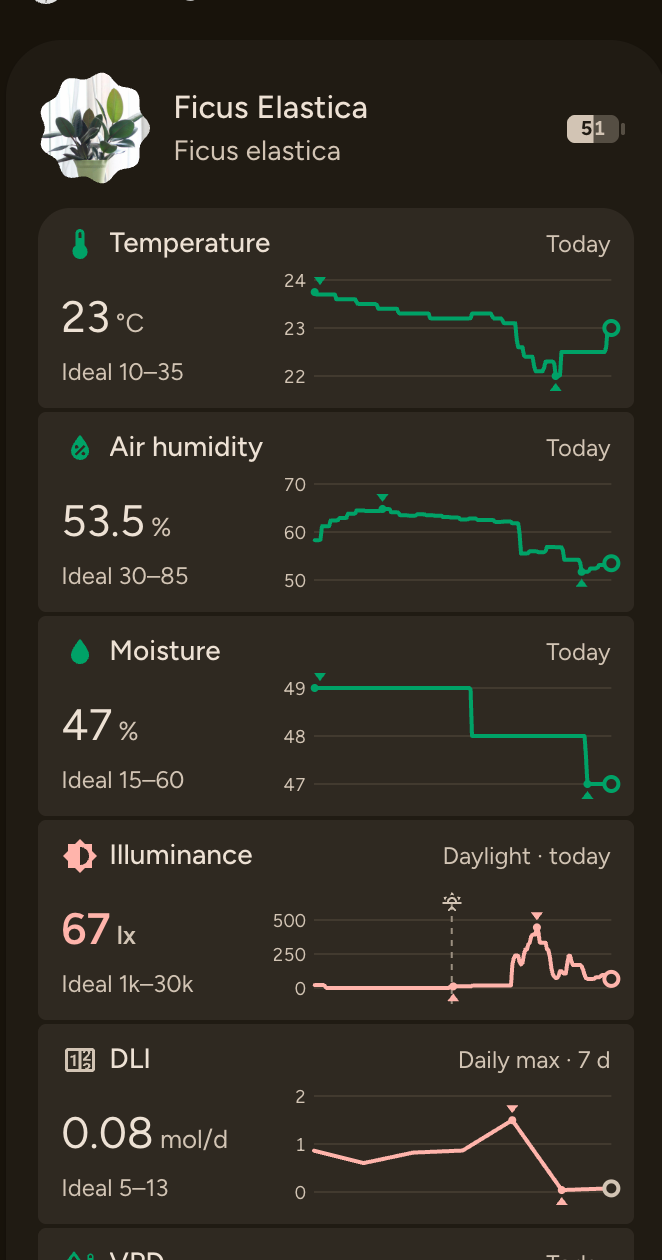
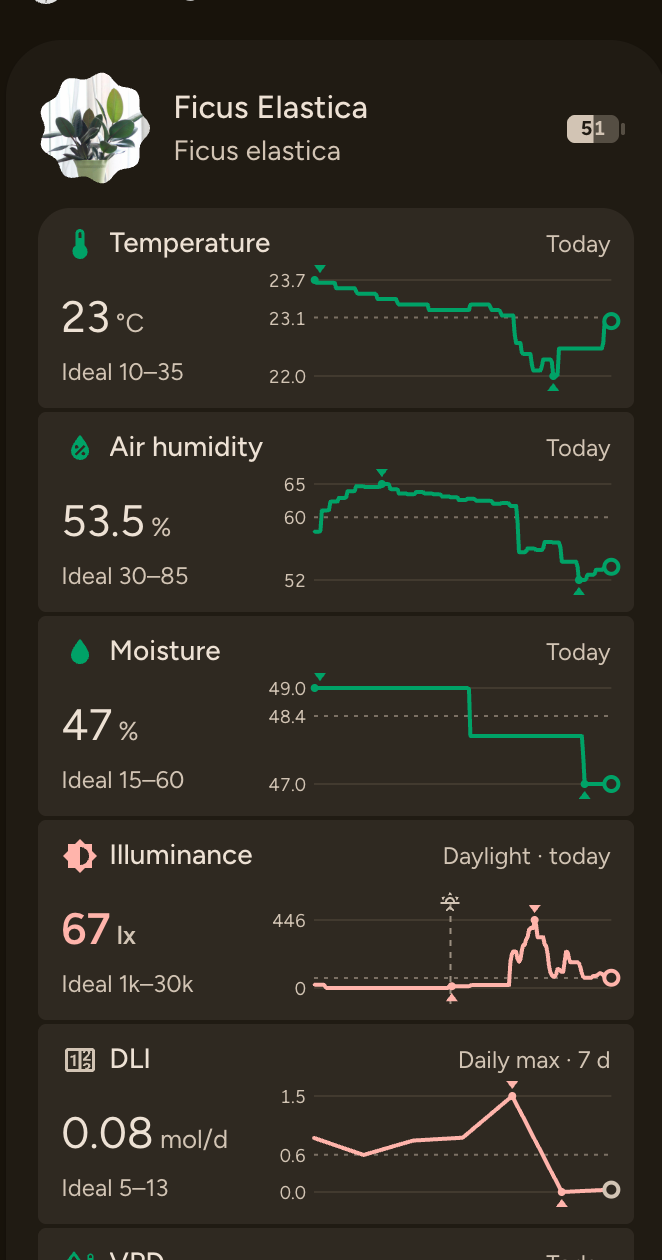
docs: min/avg/max graph gridlines

diff --git a/info.md b/info.md
@@ -4,7 +4,7 @@ Material 3 Expressive plant monitoring for Home Assistant, using [Olen's plant m
 
 <img src="https://raw.githubusercontent.com/lageorgem/ha-material-plant-card/master/assets/hero-dark.png" alt="Eleven plants on a dark dashboard using Material Plant Card in compact mode" width="900">
 
-- Full mode (default, as in flower-card): grouped Material 3 Expressive metric tiles with an icon, name and history label above a large current value and **Ideal a–b**. Summary display shows ideal-bound ticks, a threshold-coloured min–max segment, a current-value ring, an average triangle and **Min · Avg · Max** badges. Graph display shows a threshold-coloured history line, a small left-side y-axis with faint gridlines, min/max triangles and a latest-value ring, with no average marker or statistics row.
+- Full mode (default, as in flower-card): grouped Material 3 Expressive metric tiles with an icon, name and history label above a large current value and **Ideal a–b**. Summary display shows ideal-bound ticks, a threshold-coloured min–max segment, a current-value ring, an average triangle and **Min · Avg · Max** badges. Graph display shows a threshold-coloured history line, min, average (dashed) and max gridlines labelled on a small left-side y-axis, min/max triangles and a latest-value ring, with no average marker or statistics row.
 - Compact mode: circular gauges with icons centred on the dial, low, just-right and high zones, an active arc and a position dot; coloured fill follows the track's thin outer zones, thick just-right band and gaps. Logarithmic illuminance scaling for positive lux thresholds applies in both modes.
 - Success colour in range (`--md-sys-color-success`, falling back to `--success-color`). Compact gauges use neutral on-surface-variant for out-of-range readings without a problem, and error colour for problems with bold, error-coloured value text.
 - Cookie-shaped plant photo, missing-image placeholder, species or problem summary, and a red error circle with a centred **!** when attention is needed.
@@ -47,7 +47,7 @@ metrics:
 
 Hover or touch/drag on a graph to see a point's time and value. The vertical hover guide spans the full graph height. The hover bubble stays visible while hovered; Escape dismisses it. Touching or hovering the graph does not highlight or activate the tile or open more-info; the rest of the tile opens more-info. Problem tiles also show a hover highlight outside the graph, and the plant name has a padded hover area. The line is green inside the ideal band and error red outside it. The minimum is a dot on the line with an upward triangle just below it, the maximum a dot with a downward triangle just above it; both are plotted points, so hovering shows their value. Sunrise/sunset icons sit in a band above the plot. Min/max markers turn red outside ideal bounds.
 
-Graph vertical scales fit the observed values, with bounds rounded to easy-to-read numbers, labels on a small left-side y-axis and faint horizontal gridlines. Ideal bounds are not drawn as guide lines. Illuminance graphs with windows up to 3 days show golden-hour boundaries only when `daylight_only` is enabled: sunrise + offset and sunset − offset, using Home Assistant's configured location. Each has a sunrise/sunset icon above a dashed vertical line. Graph time labels use Home Assistant's configured time zone.
+Graph vertical scales run from the lowest to the highest plotted value, with gridlines at the minimum, average (dashed) and maximum, labelled on a small left-side y-axis. Ideal bounds are not drawn as guide lines. Illuminance graphs with windows up to 3 days show golden-hour boundaries only when `daylight_only` is enabled: sunrise + offset and sunset − offset, using Home Assistant's configured location. Each has a sunrise/sunset icon above a dashed vertical line. Graph time labels use Home Assistant's configured time zone.
 
 On every card render, the summary range bar's historical span (including the 24-hour span), current dot and average marker animate in. Graph lines draw from left to right, then min/max markers and the current ring appear. Reduced-motion users get no entry animation.
 

diff --git a/CHANGELOG.md b/CHANGELOG.md
@@ -11,7 +11,7 @@ Unreleased — first public release in preparation.
 
 - Material 3 Expressive plant card for Olen's plant monitor integration. Full mode is the default, as in flower-card: a header and grouped metric tiles with a small tone-coloured icon and metric name in the title row, a history label on the right, a large current value with its unit and `Ideal a–b` below it. Only real problems selected by problem settings add a faint red gradient tint.
 - Full-mode history exclusively from recorder statistics; no raw history requests. Optional string `history_period`: `today` (default), `24h`, `3d`, `7d`, `14d` or `30d` (example: `history_period: 14d`). `today` runs from midnight in Home Assistant's time zone to now, labelled `Today`; per-metric `period` inherits this default. Measurement sensors require recorder statistics and `state_class: measurement`. Refreshes every 10 minutes.
-- Optional string `full_display`: `summary` (default) or `graph` (example: `full_display: graph`). Summary shows ideal-bound ticks, a threshold-coloured min–max segment, current-value ring, average triangle and Min/Avg/Max badges. Graph shows a line coloured green inside the ideal band and error red outside, a small left-side y-axis with faint gridlines, min/max triangles (red outside ideal bounds), and a latest-value ring, with no average marker or statistics row. Mouse hover or touch/drag shows the point's time and value; graph interaction does not open more-info, while the rest of the tile does.
+- Optional string `full_display`: `summary` (default) or `graph` (example: `full_display: graph`). Summary shows ideal-bound ticks, a threshold-coloured min–max segment, current-value ring, average triangle and Min/Avg/Max badges. Graph shows a line coloured green inside the ideal band and error red outside, min, average (dashed) and max gridlines labelled on a small left-side y-axis, min/max triangles (red outside ideal bounds), and a latest-value ring, with no average marker or statistics row. Mouse hover or touch/drag shows the point's time and value; graph interaction does not open more-info, while the rest of the tile does.
 - Graph min/max markers are points of the plotted line with a triangle at a fixed gap (up below the minimum, down above the maximum); today/24-hour graphs plot 5-minute statistics; sunrise/sunset icons sit in a band above the plot. Vertical scales fit observed values with bounds rounded to easy-to-read numbers; ideal-bound guide lines are removed. The vertical hover guide spans the full graph height. Hover bubbles stay visible while hovered and Escape dismisses them; touching or hovering a graph does not highlight or activate its tile.
 - Entry animations replay on every card render: the summary range bar's historical span (including the 24-hour span), current dot and average marker animate in; graph lines draw left to right before min/max markers and the current ring appear. Reduced-motion users get no entry animation.
 - Problem tiles show the hover highlight outside the graph, and the plant name has a padded hover area.

diff --git a/README.md b/README.md
@@ -215,7 +215,7 @@ Non-cumulative current values, rings and title icons turn error red outside idea
 
 Set `full_display: graph`, or `metrics.<key>.display: graph` for one tile. The right column becomes a history line: green inside the ideal band, error red outside. The minimum is a dot on the line with an upward triangle just below it; the maximum is a dot with a downward triangle just above it. Both are points of the plotted line, so hovering them shows their value. Today and 24-hour graphs plot 5-minute statistics; longer windows plot hourly values. Min/max markers turn red outside the ideal range; a ring marks the latest plotted value. There is no average marker or Min/Avg/Max row. The illuminance line is unfiltered, including night readings; with `daylight_only` enabled, its min/max triangles use daylight values only.
 
-The vertical scale fits the observed values, with bounds rounded to easy-to-read numbers. A small y-axis labels values on the left, with faint horizontal gridlines; ideal bounds are not drawn as guide lines. Lux graphs retain [logarithmic scaling](#reading-compact-mode-gauges).
+The vertical scale runs exactly from the lowest to the highest plotted value (linear, including lux). Three gridlines mark the minimum, the average (dashed) and the maximum, labelled on a small y-axis on the left; the average label is hidden when it would overlap the min or max label. Ideal bounds are not drawn as guide lines.
 
 Illuminance graphs with history windows up to 3 days show golden-hour boundaries only when `daylight_only` is enabled: sunrise + `daylight_offset` and sunset − `daylight_offset`. Each boundary has a sunrise/sunset icon above a dashed vertical line, using Home Assistant's configured location. Graph time labels use Home Assistant's configured time zone.
 
